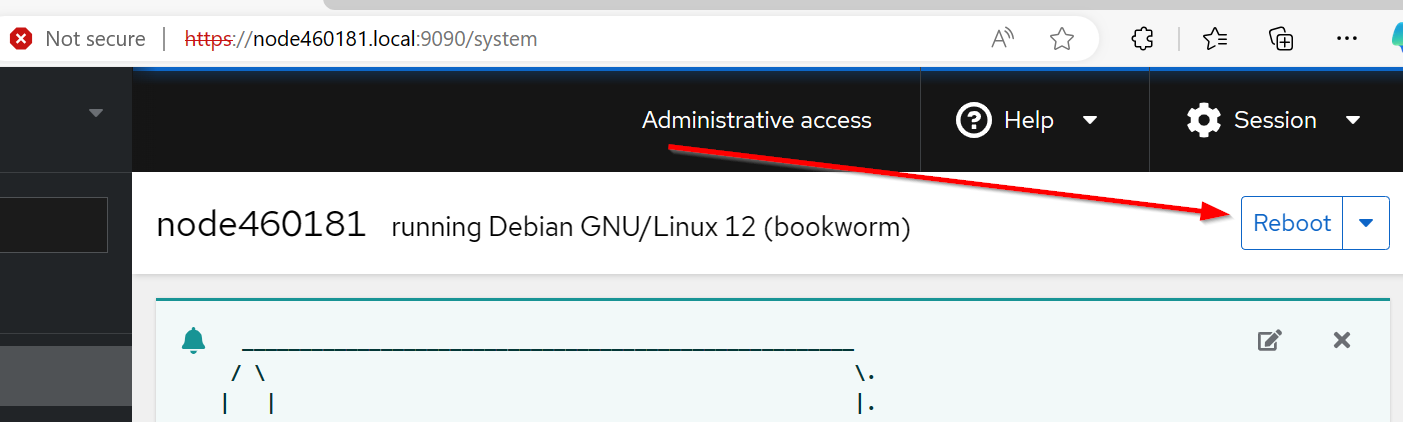
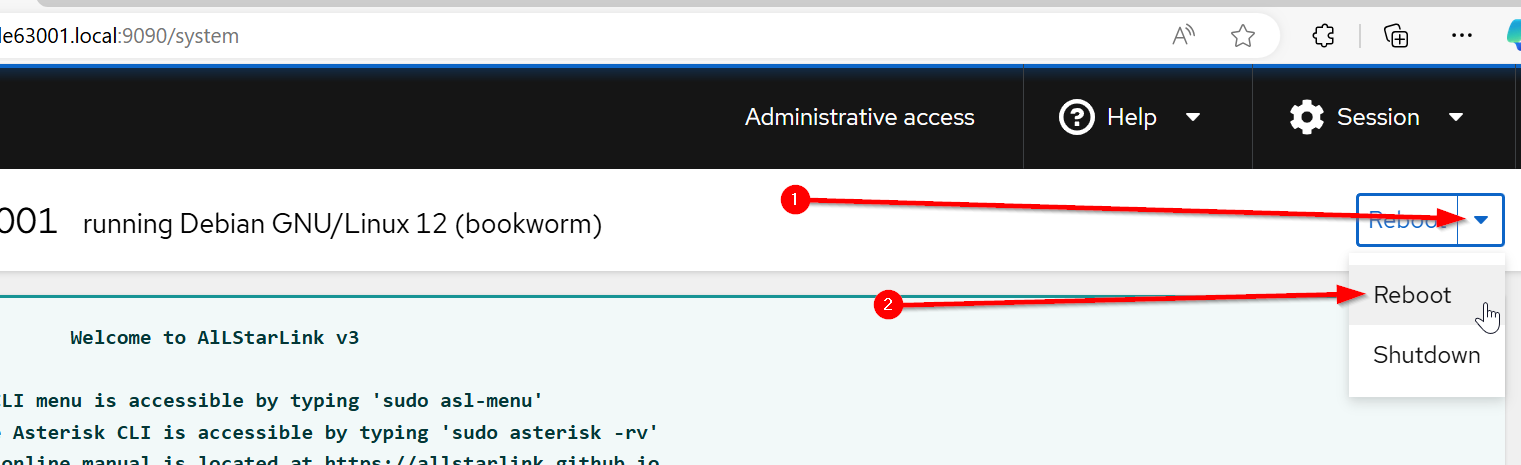
updates for node63001

diff --git a/docs/pi/cockpit-basics.md b/docs/pi/cockpit-basics.md
@@ -31,20 +31,20 @@ an SSH connection interchangeably at your desire.
 You can monitor the logs of application. In addition, you can change the
 settings directly in the web console or through the terminal. 
 
-Throughout this documentation a host named `node460181.local` is used as
+Throughout this documentation a host named `node63001.local` is used as
 the example host. Substitute that name with your own node's name as it 
 was set during the imaging process.
 
 # Logging In to the Web Console
 1. In your web browser, enter the following address to access the web console:
-    https://node460181.local:9090
+    https://node63001.local:9090
 
 2. The browser may display a warning. Accept the security exception to
 proceed with the login.
 ![Login](../user-guide/img/step-20.png)
 
 3. Enter the username and password set during the imaging process.
-![Login](../user-guide/img/step-21.png)
+![Login](../user-guide/img/step-22.png)
 
 3. Click **Log In**. 
 
@@ -56,11 +56,14 @@ Do do that:
 
 1. Click on the bar marked **Limited Access** to enable admin-level
 access.
-![Limited Access](img/limited_access.png)
+![Limited Access](img/limited_access-1.png)
+
+    You may be prompted to tnter the password again. Do 
+    so and then click **Authenticate**
+    ![Step 23B](img/limited_access-2.png)
 
 2. Click **Close** on the box reporting administrative
 access has been granted.
-![Admin Access Granted](img/admin_access_granted.png)
 
 # Shutting Down the Appliance
 You can use the web console to shut down the system.
@@ -69,11 +72,10 @@ You can use the web console to shut down the system.
 
 2. (optional) Click on the bar marked **Limited Access** to enable admin-level
 access.
-![Limited Access](img/limited_access.png)
+![Limited Access](img/limited_access-1.png)
 
 3. (optional) Click **Close** on the box reporting administrative
 access has been granted.
-![Admin Access Granted](img/admin_access_granted.png)
 
 4. Click on the downward arrow next to Reboot and then
 select **Shutdown**
@@ -90,11 +92,10 @@ is about 15-30 seconds, after which power may be removed.
 
 2. (optional) Click on the bar marked **Limited Access** to enable admin-level
 access.
-![Limited Access](img/limited_access.png)
+![Limited Access](img/limited_access-1.png)
 
 3. (optional) Click **Close** on the box reporting administrative
 access has been granted.
-![Admin Access Granted](img/admin_access_granted.png)
 
 4. Click on Reboot
 ![Shutdown](img/cockpit_reboot.png)
@@ -115,11 +116,10 @@ to change the Timezone. To change the time:
 
 2. (optional) Click on the bar marked **Limited Access** to enable admin-level
 access.
-![Limited Access](img/limited_access.png)
+![Limited Access](img/limited_access-1.png)
 
 3. (optional) Click **Close** on the box reporting administrative
 access has been granted.
-![Admin Access Granted](img/admin_access_granted.png)
 
 4. Click on Overview and scroll down to **Configuration**
 

diff --git a/docs/pi/index.md b/docs/pi/index.md
@@ -4,16 +4,30 @@ while retaining the ubiquitous Raspberry Pi experience
 that's well-documented and familiar to the amateur radio
 community worldwide.
 
-## Cockpit
+## Cockpit Web Admin Interface
 The AllStarLink Pi Appliance includes the user-friendly
 Cockpit system for ease of administration. Cockpit
-is access on port 9090 of the appliance. For example, if
-the appliance's hostname is `node460181` then pointing a
-browser to `https://node460181.local:9090/` will bring up
+is access on port 9090 of the appliance. In these examples
+the hostname `node63001` is used and should be replaced
+with the name you set during setup. If the name
+`node63001` was used at setup, then pointing a
+browser to `https://node63001.local:9090/` will bring up
 the Cockpit interface. Note: The hostname only works
 when your node and your PC are on the same LAN. Otherwise
 use the IP or dns name you assign. Login is the username
-and password that was setup during the Pi imgaging process.
+and password that was setup during the Pi imaging process.
+
+The first connection will report a message that
+"Your connection isn't private". For the Pi appliance, this is
+acceptable. Click on **Advanced** and then
+**Continue to node63001.local (unsafe)**. This only must be done
+the first time.
+![Browser Warning](../user-guide/img/step-20.png)
+
+Enter the username and password configured during the imaging process
+above. Click **Log in**
+![Cockpit Login](/user-guide/img/step-22.png)
+
 
 Cockpit is fairly intuitive to use, but here's are a few
 pointers to help get started:

diff --git a/docs/pi/cockpit-services.md b/docs/pi/cockpit-services.md
@@ -22,7 +22,7 @@ You can tell which services are active or inactive by checking the State column.
 ![Service Enable](img/cockpit_service_start.png)
 
 4. To deactivate an active service, click the Stop button
-![Service Enable](img/cockpit_service_start.png)
+![Service Enable](img/cockpit_service_stop.png)
 
 5. To restart a service, click the Restart button
 ![Service Enable](img/cockpit_service_restart.png)
